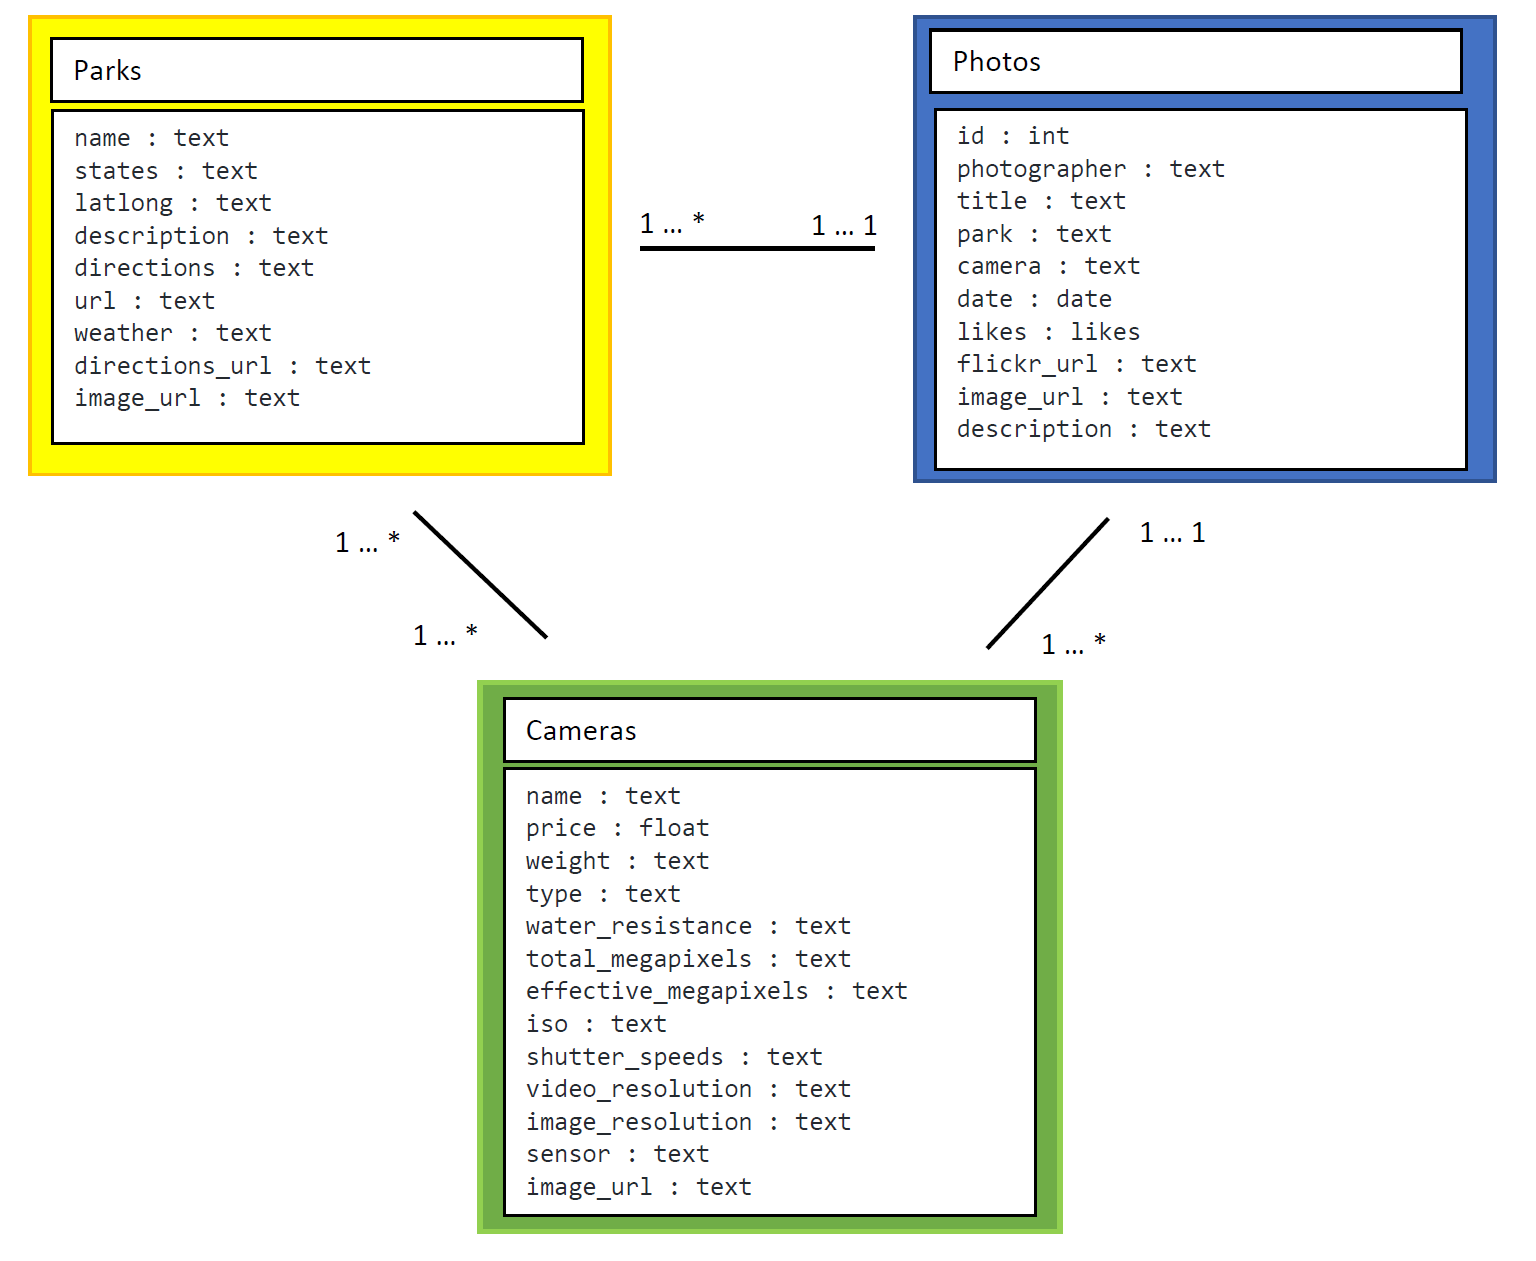
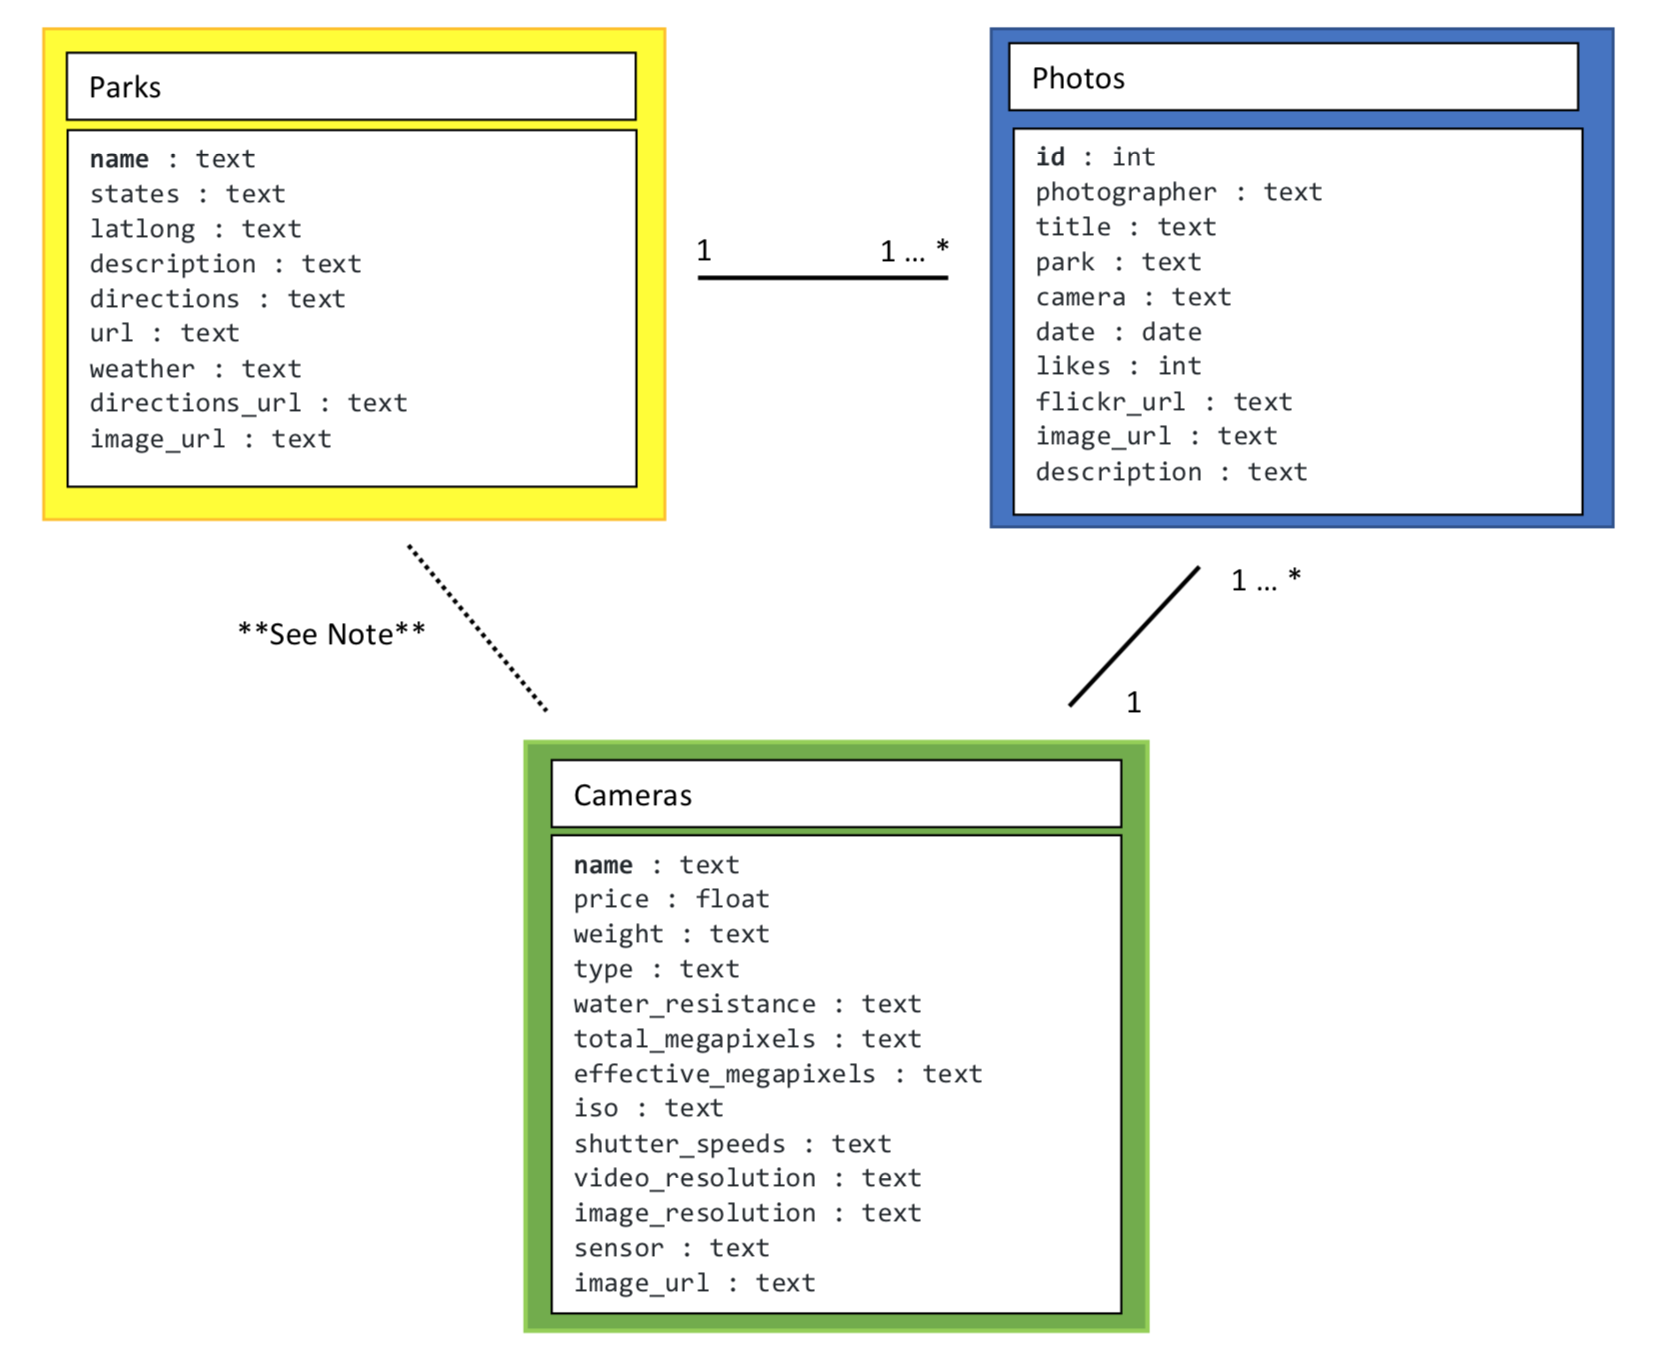
Update UML diagram

Changed region(s): [[0.0, 0.0, 0.5625, 0.4948], [0.3125, 0.4639, 0.7188, 0.9897], [0.5625, 0.0, 1.0, 0.433]]

diff --git a/doc/models.md b/doc/models.md
@@ -51,5 +51,26 @@ Below are the models for cameras, national parks, and photos.
 
 ## UML Diagram {#uml}
 
-A UML diagram showing the relationship between these models can be seen below:![](/assets/uml_diagram.png)
+A UML diagram showing the relationship between these models can be seen below:
+
+![](assets/uml_diagram.png)
+
+**Note:** From the models themselves, there is no direct connection between the
+`park` and `camera` models. In the database, parks and cameras are connected
+only by the two one to many relationships they have with `photos`. This
+relationship normalizes out what would be a man-to-many relationship between
+`park`s and `camera`s, eliminating redundant data within the tables. There is
+an *implicit* connection between parks and cameras through the use of filtering
+with the API.
+
+For example, if I wanted to get all of the parks that a specific camera has
+taken photos of, I should make the following request:
+
+```
+http://api.natphoto.me/parks?camera=Canon%20EOS%2080D
+```
+
+This request will get all of the parks that are related to the provided camera. 
+Likewise, it is possible get all of the cameras with a specified park, even
+though this is not specifically linked in the database.
 
